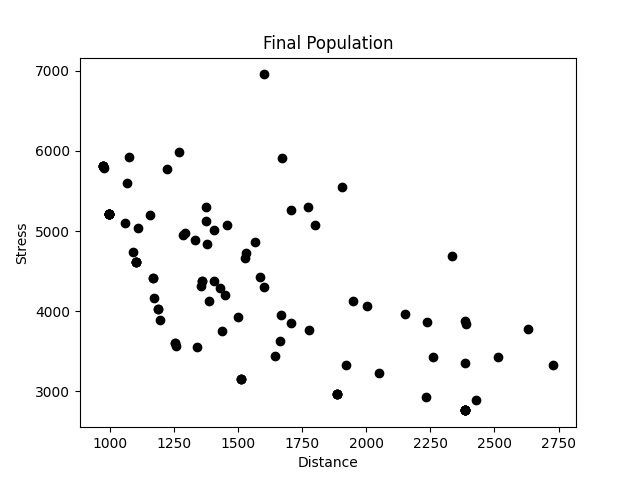
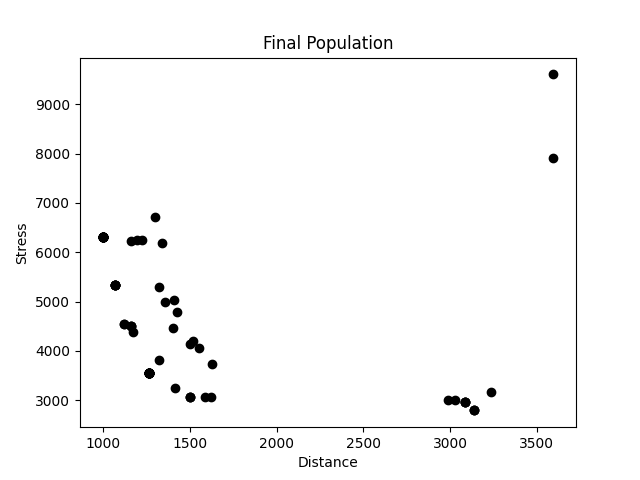
SPEA2 / QOL Update

diff --git a/Multi-Objective/Ursprungscode/Split/GeneticAlgorithm.py b/Multi-Objective/Ursprungscode/Split/GeneticAlgorithm.py
@@ -1,7 +1,7 @@
 import random, numpy as np, pandas as np, matplotlib.pyplot as plt
 from Fitness import Fitness
-from config import selection_method, tournament_size, replace_size, plotting_enabled, saving_enabled, output_directory, crossover_method, mutation_method
-from Mutation import mutate, mutatePopulation
+from config import selection_method, tournament_size, replace_size, plotting_enabled, saving_enabled, output_directory, crossover_method, mutation_method, spea2_archive_enabled
+from Mutation import mutate, mutatePopulation, mutatePopulationWithConfig
 from Crossover import ordered_crossover, one_point_crossover, edge_recombination_crossover
 from Selection import selection, selectionWithArchive
 from Archive import determineNonDominatedArchiveSize, determineNonDominatedArchive
@@ -62,7 +62,7 @@ def nextGeneration(currentGen, eliteSize, mutationRate, objectiveNrUsed, archive
         selectionResults = selection(popRanked, eliteSize)
         matingpool = matingPool(currentGen, selectionResults)
         children = breedPopulation(matingpool, eliteSize)
-        nextGeneration = mutatePopulation(children, mutationRate,0)
+        nextGeneration = mutatePopulationWithConfig(children, mutationRate,eliteSize, 0)
     else:
         #<<<<< use archiv
         #TODO: ein festes Archiv vorsehen wie es im ursprünglichen SPEA2 vorgesehen ist 
@@ -70,15 +70,15 @@ def nextGeneration(currentGen, eliteSize, mutationRate, objectiveNrUsed, archive
         matingpool = matingPool(currentGen, selectionResults)
         archiveSize = determineNonDominatedArchiveSize(popRanked)
         children = breedPopulation(matingpool, archiveSize)
-        #eliteSize is used to maintain solutions that should be in an archive
-        nextGeneration = mutatePopulation(children, mutationRate, eliteSize)
+        nextGeneration = mutatePopulationWithConfig(children, mutationRate, eliteSize, archiveSize)
     return nextGeneration
 
 def geneticAlgorithm(objectiveNrUsed, specialInitialSolutions, population, popSize, eliteSize, mutationRate, generations, seed = 44):
     #create initial population
     pop = initialPopulation(popSize, population, specialInitialSolutions)
     
-    archiveUsed = False
+    archiveUsed = spea2_archive_enabled
+    archive = []
     
     #provide statistics about best initial solution with regard to chosen objective
     if (objectiveNrUsed == 1 or objectiveNrUsed == 2):
@@ -116,9 +116,9 @@ def geneticAlgorithm(objectiveNrUsed, specialInitialSolutions, population, popSi
         progressStress.append(1 / rankRoutes(pop,2)[0][1])
     print("Done!")
             
-    if plotting_enabled:
-        plotProgress(progressDistance, 'Distance', 'Progress of Distance Minimization')
-        plotProgress(progressStress, 'Stress', 'Progress of Stress Minimization')
+    # if plotting_enabled:
+    #     plotProgress(progressDistance, 'Distance', 'Progress of Distance Minimization')
+    #     plotProgress(progressStress, 'Stress', 'Progress of Stress Minimization')
     
     #provide statistics about best final solution with regard to chosen objective
     if (objectiveNrUsed == 1 or objectiveNrUsed == 2):
@@ -147,10 +147,10 @@ def geneticAlgorithm(objectiveNrUsed, specialInitialSolutions, population, popSi
         print("Final best stress value: " + str(1/ rankRoutes(pop,2)[0][1]))
         bestRouteIndex = rankRoutes(pop,objectiveNrUsed)[0][0]
         bestRoute = pop[bestRouteIndex]
+        archive = determineNonDominatedArchive(pop, rankRoutes(pop,objectiveNrUsed))
         plotRoute(bestRoute, "Best final route")
         #TODO: ein festes Archiv vorsehen wie es im ursprünglichen SPEA2 vorgesehen ist
         # dann alle Lösungen ausgeben die im Archiv sind
-        
         
     #plot final population with regard to the two objectives
     plotPopulationAndObjectiveValues(pop, "Final Population")

diff --git a/Multi-Objective/Ursprungscode/Split/Plotting_Func/VisualiseArchive.py b/Multi-Objective/Ursprungscode/Split/Plotting_Func/VisualiseArchive.py
@@ -1,0 +1,60 @@
+import sys
+import os
+sys.path.append(os.path.abspath(os.path.join(os.path.dirname(__file__), '..')))
+
+from Fitness import Fitness
+from Plotting import plotRoute
+from RankRoutes import rankRoutes, rankRoutesBasedOnDominance
+from Archive import determineNonDominatedArchive
+
+def visualize_archive(population, objectiveNrUsed):
+    archive = determineNonDominatedArchive(population, rankRoutes(population, objectiveNrUsed))
+    print(f"No. of solutions in archive: {len(archive)}")
+    for i, route in enumerate(archive):
+        print(f"Archive Solution {i + 1}")
+        print(f"Distance: {Fitness(route).routeDistance()}")
+        print(f"Stress: {Fitness(route).routeStress()}")
+        print(f"Fitness: {rankRoutes([route], 3)[0][1]}")
+        print("----")
+        plotRoute(route, f"Archive Solution {i + 1}")
+
+if __name__ == "__main__":
+    from GeneticAlgorithm import geneticAlgorithm
+    from config import single_run_params, initial_solution
+    from InitialPopulation import createGreedyRoute, create_city_list_from_csv
+    from City import City
+    import random
+
+    random.seed(44)
+    cityList = []
+    for i in range(1, 26):
+        cityList.append(City(nr=i, traffic=int(random.random() * 40), x=int(random.random() * 200), y=int(random.random() * 200)))
+
+    cityNumbersRoute1 = [1, 2, 3, 4, 5, 6, 7, 8, 9, 10, 11, 12, 13, 14, 15, 16, 17, 18, 19, 20, 21, 22, 23, 24, 25]
+    route1 = [city for city in cityList if city.nr in cityNumbersRoute1]
+
+    startCityNr = 1  # Starting with city number 1
+    objective = 1  # 1 = Minimize distance, 2 = Minimize stress
+    route2 = createGreedyRoute(cityList, startCityNr, objective)
+
+    filename = '../Visualisations/Best_Route.csv'  # Adjust the path as necessary
+    route3 = create_city_list_from_csv(filename)
+
+    if initial_solution == "random":
+        initial_solutionsList = [route1]
+    elif initial_solution == "nearest neighbour":
+        initial_solutionsList = [route2]
+    elif initial_solution == "solution phase 1":
+        initial_solutionsList = [route3]
+
+    bestRoute, progressDistance, progressStress, final_population = geneticAlgorithm(
+        objectiveNrUsed=single_run_params["objectiveNrUsed"],
+        specialInitialSolutions=initial_solutionsList,
+        population=cityList,
+        popSize=single_run_params["popSize"],
+        eliteSize=single_run_params["eliteSize"],
+        mutationRate=single_run_params["mutationRate"],
+        generations=single_run_params["generations"]
+    )
+
+    visualize_archive(final_population, single_run_params["objectiveNrUsed"])

diff --git a/Multi-Objective/Ursprungscode/Split/Main.py b/Multi-Objective/Ursprungscode/Split/Main.py
@@ -40,7 +40,7 @@ filename = 'Multi-Objective/Ursprungscode/Split/Visualisations/Best_Route.csv'
 route3 = create_city_list_from_csv(filename)
 
 if initial_solution == "random":
-    initialSolutionsList = [route1]
+    initial_solutionsList = [route1]
 if initial_solution == "nearest neighbour":
     initial_solutionsList = [route2]
 if initial_solution == "solution phase 1":
@@ -71,11 +71,11 @@ def run_single_experiment():
         plotPopulationAndObjectiveValues(final_population, "Final Population")
         plotParetoFront(final_population, "Pareto Front")
 
-    print("\nBeste Parameter und Ergebnisse:")
-    print(f"PopSize: {params['popSize']}")
-    print(f"EliteSize: {params['eliteSize']}")
-    print(f"MutationRate: {params['mutationRate']}")
-    print(f"Generations: {params['generations']}")
+    # print("\nBeste Parameter und Ergebnisse:")
+    # print(f"PopSize: {params['popSize']}")
+    # print(f"EliteSize: {params['eliteSize']}")
+    # print(f"MutationRate: {params['mutationRate']}")
+    # print(f"Generations: {params['generations']}")
 
 def run_experiements(): # Tuning-Modus
     results = []
@@ -101,7 +101,7 @@ def run_experiements(): # Tuning-Modus
                     print(f"Running experiment with {params}")
                     bestRoute, progressDistance, progressStress, final_population = geneticAlgorithm(
                         objectiveNrUsed=params["objectiveNrUsed"],
-                        specialInitialSolutions=initialSolutionsList,
+                        specialInitialSolutions=initial_solutionsList,
                         population=cityList,
                         popSize=params["popSize"],
                         eliteSize=params["eliteSize"],

diff --git a/Multi-Objective/Ursprungscode/Split/Mutation.py b/Multi-Objective/Ursprungscode/Split/Mutation.py
@@ -1,5 +1,5 @@
 import random
-from config import mutation_method
+from config import mutation_method, spea2_archive_enabled
 
 #Create function to mutate a single route
 #we’ll use swap mutation.
@@ -37,17 +37,21 @@ def mutate(individual, mutation_rate):
         raise ValueError("Unknown mutation method: {}".format(mutation_method))
 
 #Create function to run mutation over entire population
-def mutatePopulation(population, mutationRate, eliteSize):
+def mutatePopulation(population, mutationRate, archiveSize):
     # random.seed(44)
     mutatedPop = []
     
     #mating pool is sorted in order of fitness
     #here elitism instead of fixed archive
     #TODO: ein festes Archiv vorsehen wie es im ursprünglichen SPEA2 vorgesehen ist 
-    for ind in range(0, eliteSize):
+    for ind in range(0, archiveSize):
         mutatedPop.append(population[ind])
-    for ind in range(eliteSize, len(population)):
+    for ind in range(archiveSize, len(population)):
     #for ind in range(0, len(population)):
         mutatedInd = mutate(population[ind], mutationRate)
         mutatedPop.append(mutatedInd)
     return mutatedPop
+
+def mutatePopulationWithConfig(population, mutationRate, eliteSize, archiveSize):
+    size = archiveSize if spea2_archive_enabled else eliteSize
+    return mutatePopulation(population, mutationRate, size)

diff --git a/Multi-Objective/Ursprungscode/Split/Archive.py b/Multi-Objective/Ursprungscode/Split/Archive.py
@@ -6,7 +6,7 @@ def determineNonDominatedArchive(currentGen, popRanked):
     for i in range(0, len(popRanked)):
         if (popRanked[i][1] > 1):
             archive.append(currentGen[popRanked[i][0]])
-    #-------Prüfung auf Gleichheit bei Bedarf auskommentieren 
+    # Prüfen auf doppelte Lösungen
     sameSolutions = []
     for i in range(0, len(archive)-1):
         for j in range(i+1, len(archive)):
@@ -24,3 +24,14 @@ def determineNonDominatedArchiveSize(popRanked):
         if (popRanked[i][1] > 1):
             archiveSize += 1
     return archiveSize
+
+def isSameSolution(individuumA, individuumB):
+    length = len(individuumA)
+    i = 0
+    isSameSolution = True
+    while i < length and isSameSolution:
+        if not (individuumA[i].nr == individuumB[i].nr):
+            isSameSolution = False
+            break
+        i += 1
+    return isSameSolution

diff --git a/Multi-Objective/Ursprungscode/Split/config.py b/Multi-Objective/Ursprungscode/Split/config.py
@@ -1,13 +1,15 @@
 import os
 
 # Experiment configurations "Noch alle Modi ermöglichen"
-plotting_enabled = True
+plotting_enabled = False
 saving_enabled = False
 csv_enabled = False
 tuning_mode = False                  #TODO Noch anpassen, dass seleciton, mutation und rekombination getuned werden können
 
+spea2_archive_enabled = True   # Enable SPEA2 archive
+
 #select initial solution: "random", "nearest neighbour", "solution phase 1"
-initial_solution = "solution phase 1"
+initial_solution = "nearest neighbour"
 
 # Selection method: "roulette", "rank", "steady_state", or "tournament"
 selection_method = "roulette"
@@ -18,7 +20,7 @@ replace_size = 2                # Relevant for steady_state selection
 crossover_method = "order"
 
 # Mutation Methods: "swap", "inversion"
-mutation_method = "inversion"
+mutation_method = "swap"
 
 
 # Parameters for single run

diff --git a/Multi-Objective/Ursprungscode/Split/Plotting.py b/Multi-Objective/Ursprungscode/Split/Plotting.py
@@ -104,9 +104,12 @@ def plotParetoFront(population, title="Pareto Front"):
         save_path = os.path.join(output_directory, f"{title.replace(' ', '_')}.png")
         os.makedirs(output_directory, exist_ok=True)
         plt.savefig(save_path)
-        print(f"Plot saved to {save_path}")
 
     plt.show()
+
+def plotArchiveRoutes(archive):
+    for i, route in enumerate(archive):
+        plotRoute(route, f"Archived Soulution {i + 1}")
 
 
 
